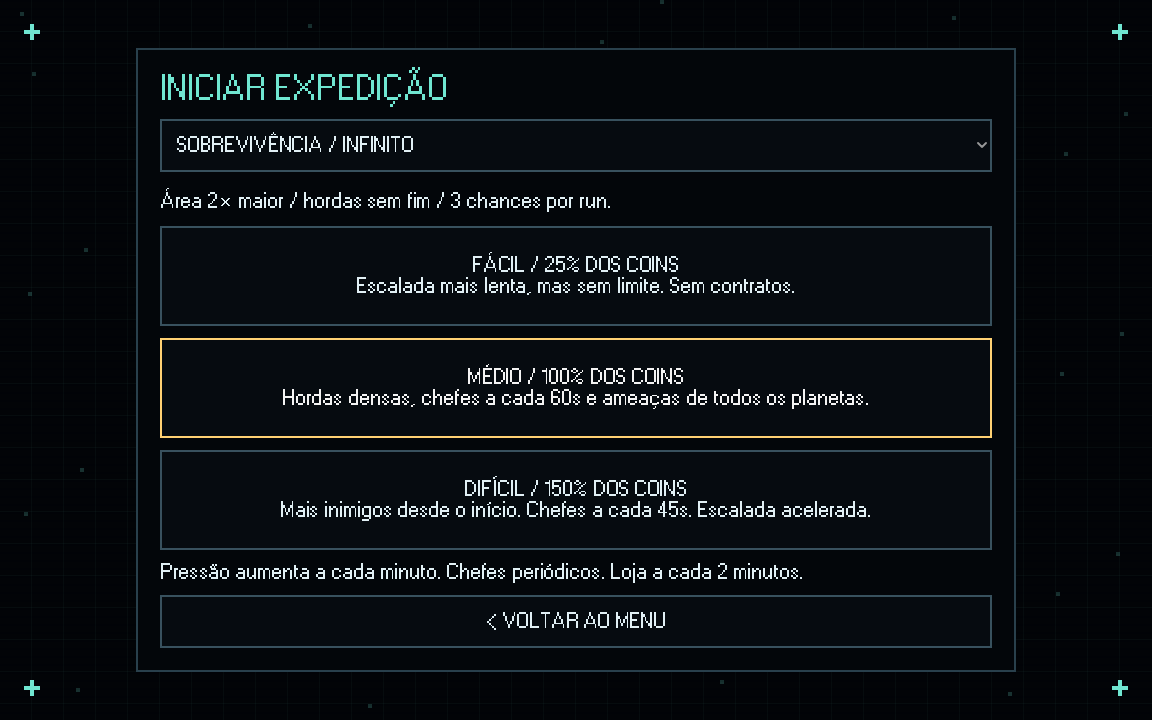
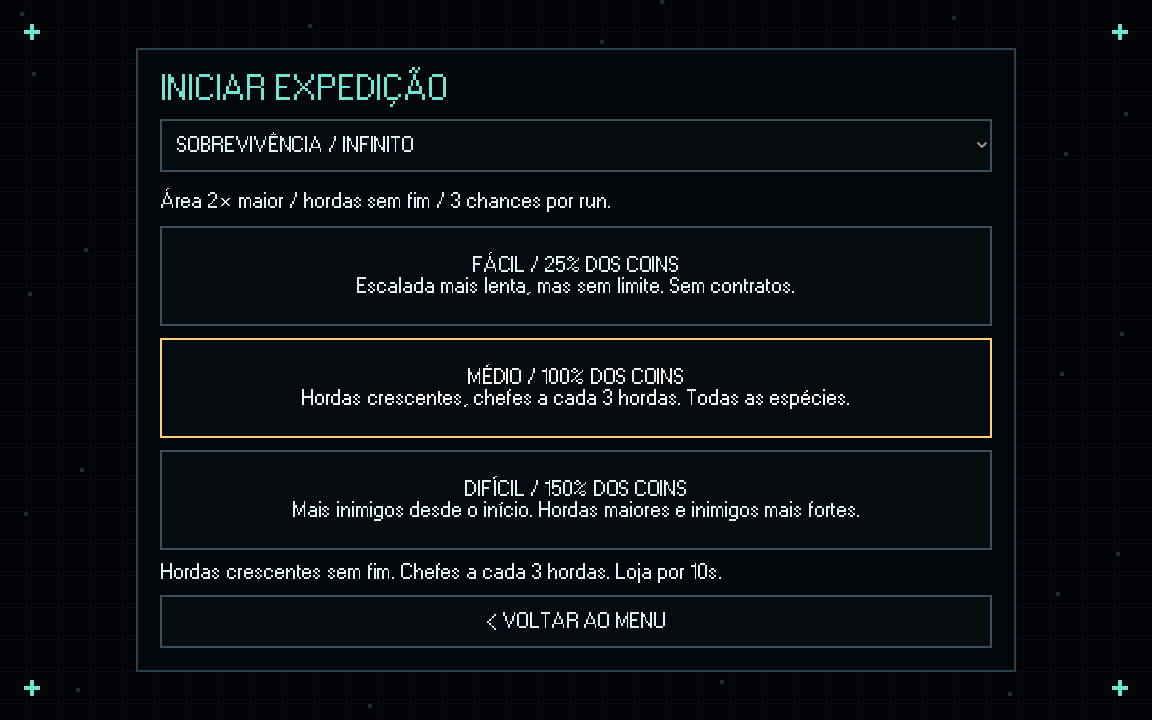
Transforma sobrevivencia em hordas com loja de 10s e fortalece baliza

diff --git a/README.md b/README.md
@@ -4,7 +4,7 @@ Protótipo 2D de arena para Godot **4.7.2 Standard / GDScript**, criado nesta pa
 
 **Para editar o visual no editor:** veja [Editar no Godot](docs/EDITAR_NO_GODOT.md). Menu, controles, HUD, pausa, upgrades, resultado, arena e atores agora possuem cenas `.tscn` próprias em `scenes/`. O tema compartilhado está em `ui_theme.tres`. Importe o `project.godot` da raiz, não o arquivo existente dentro de `docs`.
 
-## Versão atual: 0.1.6
+## Versão atual: 0.1.7
 
 - Chefe de Netuno animado com os três frames originais de `assets/mobs_netuno/mob_neturno2`.
 - Tela expandida para preencher 1920×1080 e outras proporções sem bordas, com escala uniforme e HUD centralizada.
@@ -132,12 +132,14 @@ O menu **Teste** abre qualquer uma das 13 arenas ou seu chefe, com escolha de eq
 
 Detalhes de implementação e testes: [expansão](docs/EXPANSAO_INFINITA.md).
 
-## Sobrevivência infinita (0.1.6)
+## Sobrevivência infinita (0.1.7)
 
 Em Iniciar Expedição, selecione Sobrevivência no seletor de modo e escolha Fácil, Médio ou Difícil. A arena mede 2048×1344: exatamente o dobro da área da arena inicial (1536×896), sem esticar os pixels.
 
-Hordas contínuas; pressão aumenta a cada minuto de combate (mais depressa no Difícil). Chefes a cada 80/60/45 segundos conforme a dificuldade, com até três chefes simultâneos; cada terceiro é um superchefe e cada sexto é o Deus Alienígena. Novas espécies entram com a pressão. Vida cresce sem teto; velocidade e inimigos simultâneos têm limites para manter o jogo controlável e o desempenho previsível.
+Hordas numeradas com quantidade finita de inimigos em cada uma. Ao eliminar todos os inimigos, o loot restante é recolhido e a loja abre por **10 segundos**. Ao acabar o prazo (ou continuar), começa a próxima horda, com mais inimigos e mais vida. A dificuldade determina tamanho e ritmo dos lotes de entrada. Chefes a cada terceira horda; cada terceiro chefe é um superchefe e cada sexto é o Deus Alienígena. As espécies entram progressivamente. Não há horda final; apenas a quantidade simultânea e a velocidade são limitadas para preservar desempenho e controle.
 
-A cada dois minutos de combate, a loja abre por 20 segundos. O combate fica suspenso e depois retorna na mesma arena, preservando inimigos, loot e chances. São três chances para toda a run. Coins mantêm os multiplicadores de 25%/100%/150%, e contratos continuam indisponíveis no Fácil. Não existe extração ou vitória automática neste modo.
+As três chances valem para toda a run. Coins mantêm os multiplicadores de 25%/100%/150%, e contratos continuam indisponíveis no Fácil. Não há extração neste modo.
+
+Baliza de contenção: raio de 320 px, duração de 20 segundos, redução de velocidade de 80% nos mobs e 50% nos chefes. Limpa projéteis hostis no raio a cada 0,35 segundo.
 
 Verificação: `Godot --headless --path . --script tests/survival.gd`.

diff --git a/docs/EXPORTACAO.md b/docs/EXPORTACAO.md
@@ -3,7 +3,7 @@
 Arquivos de saída:
 
 - builds/windows/OneMoreOrbit.exe: Windows x86_64, release, dados incorporados no executável.
-- builds/android/OneMoreOrbit.apk: Android ARM64 e ARM de 32 bits, release assinado, pacote com.noctir.onemoreorbit, versão 0.1.6.
+- builds/android/OneMoreOrbit.apk: Android ARM64 e ARM de 32 bits, release assinado, pacote com.noctir.onemoreorbit, versão 0.1.7.
 
 Para repetir a exportação, execute tools/export_game.py com Python. Na primeira execução, tools/prepare_exports.py baixa os templates oficiais Godot 4.7.2, OpenJDK Temurin 17 e ferramentas Android oficiais do Google. A instalação fica em .godot/export-tools, sem mudar Java ou Android do sistema. O Godot de exportação usa configuração portátil própria. Defina GODOT_BIN com o caminho do executável Godot 4.7.2; o script também procura Godot no PATH e na pasta Downloads do usuário. Os caminhos locais de templates são aplicados só durante a exportação, e o preset original é restaurado ao finalizar.
 
